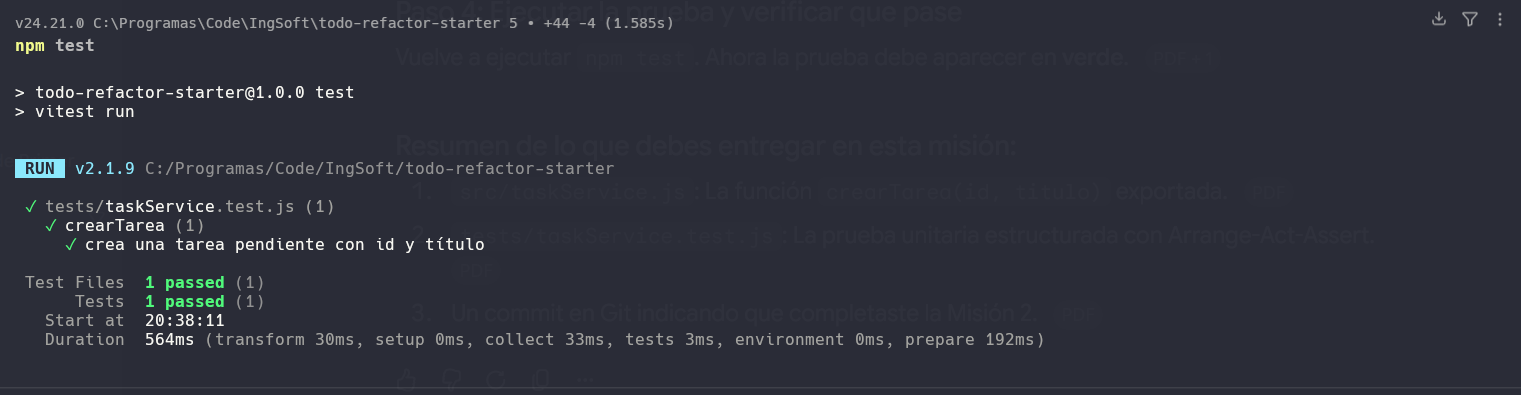
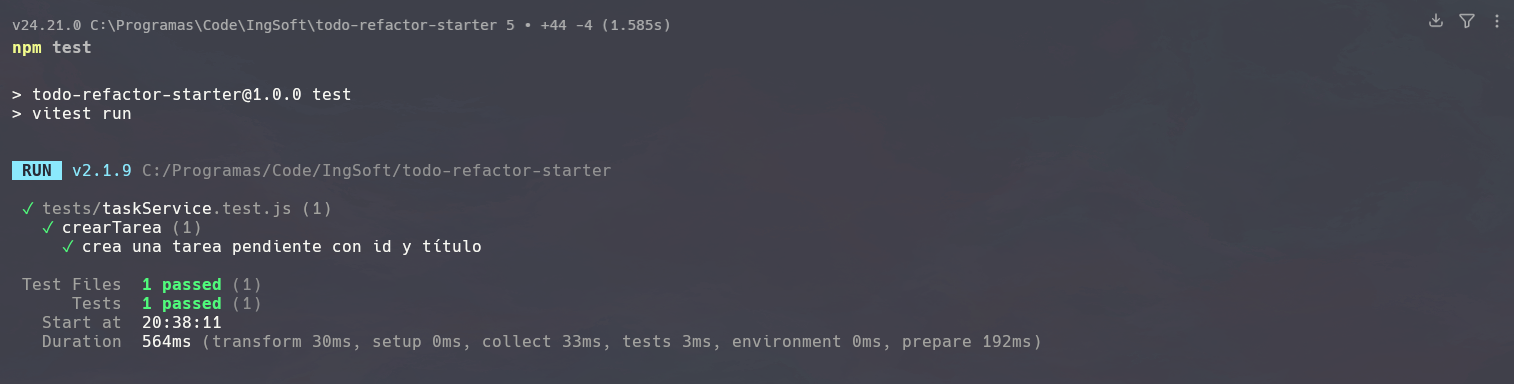
feat: Misión 3 - Driver: Manu, Navigator: Uriel

diff --git a/tests/taskService.test.js b/tests/taskService.test.js
@@ -36,6 +36,53 @@ describe("crearTarea", () => {
 });
 
 // MISIÓN 3: agrega al menos dos pruebas para agregarTarea().
+// Prueba 1: Verifica que la nueva tarea esté dentro del arreglo devuelto
+describe("agregarTarea", () => {
+  it('agrega una tarea a la lista existente', () => {
+    // Arrange
+    const tareasIniciales = [{ id: 1, titulo: "Tarea 1", completada: false }];
+    const nuevaTarea = { id: 2, titulo: "Nueva tarea", completada: false };
+
+    // Act
+    const resultado = agregarTarea(tareasIniciales, nuevaTarea);
+
+    // Assert
+    expect(resultado).toContainEqual(nuevaTarea);
+  });
+});
+
+// Prueba 2: Verifica que el resultado contenga un elemento más que el inicial
+describe("agregarTarea", () => {
+  it('incrementa en uno la cantidad total de tareas', () => {
+    // Arrange
+    const tareasIniciales = [{ id: 1, titulo: "Tarea 1", completada: false }];
+    const nuevaTarea = { id: 2, titulo: "Tarea 2", completada: false };
+
+    // Act
+    const resultado = agregarTarea(tareasIniciales, nuevaTarea);
+
+    // Assert
+    expect(resultado.length).toBe(tareasIniciales.length + 1);
+  });
+});
+
+// Prueba 3: Verifica que el nuevo arreglo no sea el mismo que el original (inmutabilidad)
+describe("agregarTarea", () => {
+  it('no muta el arreglo original de tareas', () => {
+    // Arrange
+    const tareasIniciales = [{ id: 1, titulo: "Tarea 1", completada: false }];
+    const copiaInicial = [{ id: 1, titulo: "Tarea 1", completada: false }];
+    const nuevaTarea = { id: 2, titulo: "Tarea 2", completada: false };
+
+    // Act
+    const resultado = agregarTarea(tareasIniciales, nuevaTarea);
+
+    // Assert
+    expect(resultado).not.toBe(tareasIniciales); // Referencias distintas
+    expect(tareasIniciales).toEqual(copiaInicial); // El contenido original no cambia
+  });
+});
+
 // MISIÓN 4: prueba id existente e inexistente para buscarTarea().
 // MISIÓN 5: prueba colección mixta, sin coincidencias y vacía.
 // MISIÓN 6: prueba cambio correcto, otra tarea intacta e id inexistente.

diff --git a/src/taskService.js b/src/taskService.js
@@ -13,13 +13,11 @@ export function crearTarea(id, titulo) {
     titulo: titulo,
     completada: false
   };
-  throw new Error("Misión 2 pendiente: implementar crearTarea()");
 }
 
 // MISIÓN 3
 export function agregarTarea(tareas, nuevaTarea) {
-  // TODO: devolver una NUEVA colección que incluya nuevaTarea.
-  throw new Error("Misión 3 pendiente: implementar agregarTarea()");
+  return [...tareas, nuevaTarea];
 }
 
 // MISIÓN 4

diff --git a/README.md b/README.md
@@ -95,7 +95,7 @@ Registra por misión quién fue **Driver** y quién **Navigator**. Intercambien 
 3. Contador de tareas
 
 
-### Misión 1
+## Misión 1
 - Driver: Manuel
 
 - Navigator: Uriel
@@ -122,12 +122,12 @@ Las tareas pasaron de texto a ser representadas como objetos, no hubo ninguna co
    ];
 ```
 
-### Misión 2
+## Misión 2
 
 - **Driver:** Manuel
 - **Navigator:** Uriel
 
-#### RED: escribir la prueba unitaria
+### RED: escribir la prueba unitaria
 
 Antes de escribir el código de la función, usamos una prueba unitaria. Esta
 prueba especifica cómo debe comportarse `crearTarea`.
@@ -144,7 +144,7 @@ La prueba falló porque la función `crearTarea` aún no existe o no devuelve lo
 esperado. Esto confirma que la prueba realmente está verificando algo que aún
 no se ha implementado.
 
-#### GREEN: implementar el código mínimo
+### GREEN: implementar el código mínimo
 
 Una vez comprobado que la prueba unitaria está lista, escribimos el código
 mínimo necesario para que pase:
@@ -167,3 +167,91 @@ Con esta práctica entendimos mejor el propósito de las pruebas unitarias:
 en lugar de realizar la prueba manualmente, solo se define el comportamiento y,
 al ejecutar `npm test`, se verifica en milisegundos si la función devuelve el
 objeto correcto.
+
+## Misión 3
+
+- **Driver:** Manuel
+- **Navigator:** Uriel
+
+Dada una lista de tareas y una nueva tarea, la función debe retornar una
+colección que combine ambas. Para este problema, Uriel indicó que la solución
+más sencilla, debido a su experiencia en el desarrollo web, sería utilizar el
+operador spread (`...`). Este operador sirve para copiar todos los elementos
+del arreglo original `tareas` y crear un nuevo arreglo.
+
+```javascript
+return [...tareas, nuevaTarea];
+```
+
+### Prueba 1: agregar una tarea a la lista
+
+La prueba se diseñó para iniciar con el arreglo de tareas y la nueva tarea.
+Después, se llama a `agregarTarea`. El resultado esperado es que la nueva
+colección contenga `nuevaTarea`.
+
+```javascript
+describe("agregarTarea", () => {
+  it('agrega una tarea a la lista existente', () => {
+    // Arrange
+    const tareasIniciales = [{ id: 1, titulo: "Tarea 1", completada: false }];
+    const nuevaTarea = { id: 2, titulo: "Nueva tarea", completada: false };
+
+    // Act
+    const resultado = agregarTarea(tareasIniciales, nuevaTarea);
+
+    // Assert
+    expect(resultado).toContainEqual(nuevaTarea);
+  });
+});
+```
+
+### Prueba 2: Verificar que la nueva lista contiene un elemento extra
+
+Se diseñó para comprobar que la nueva colección es más grande. Por ello, se
+verifica que tenga un elemento más que la colección inicial; el resultado debe
+ser `tareasIniciales.length + 1`.
+
+```javascript
+describe("agregarTarea", () => {
+  it('incrementa en uno la cantidad total de tareas', () => {
+    // Arrange
+    const tareasIniciales = [{ id: 1, titulo: "Tarea 1", completada: false }];
+    const nuevaTarea = { id: 2, titulo: "Tarea 2", completada: false };
+
+    // Act
+    const resultado = agregarTarea(tareasIniciales, nuevaTarea);
+
+    // Assert
+    expect(resultado.length).toBe(tareasIniciales.length + 1);
+  });
+});
+```
+
+### Prueba 3: Verifica que el nuevo arreglo no sea el mismo que el original (inmutabilidad) 
+Para detectar si agregarTarea está modificando directamente el arreglo original recibido, se comprueba que el nuevo arreglo no sea igual al original, además de comprobar que la copia de este sea idéntica al original para asegurar que ni el contenido ni la referencia del arreglo original sean alterados.
+
+```javascript
+describe("agregarTarea", () => {
+  it('no muta el arreglo original de tareas', () => {
+    // Arrange
+    const tareasIniciales = [{ id: 1, titulo: "Tarea 1", completada: false }];
+    const copiaInicial = [...tareasIniciales]
+    const nuevaTarea = { id: 2, titulo: "Tarea 2", completada: false };
+
+    // Act
+    const resultado = agregarTarea(tareasIniciales, nuevaTarea);
+
+    // Assert
+    expect(resultado).not.toBe(tareasIniciales); // Referencias distintas
+    expect(tareasIniciales).toEqual(copiaInicial); // El contenido original no cambia
+  });
+});
+```
+
+Una vez definidas las pruebas, ejecutamos `npm test` para comprobar que todo
+está en orden.
+
+![Resultado de las pruebas](images/image-3.png)
+
+El resultado es exitoso: las pruebas fueron satisfactorias, lo que indica que
+las tres de agregar tarea fueron correctas.
